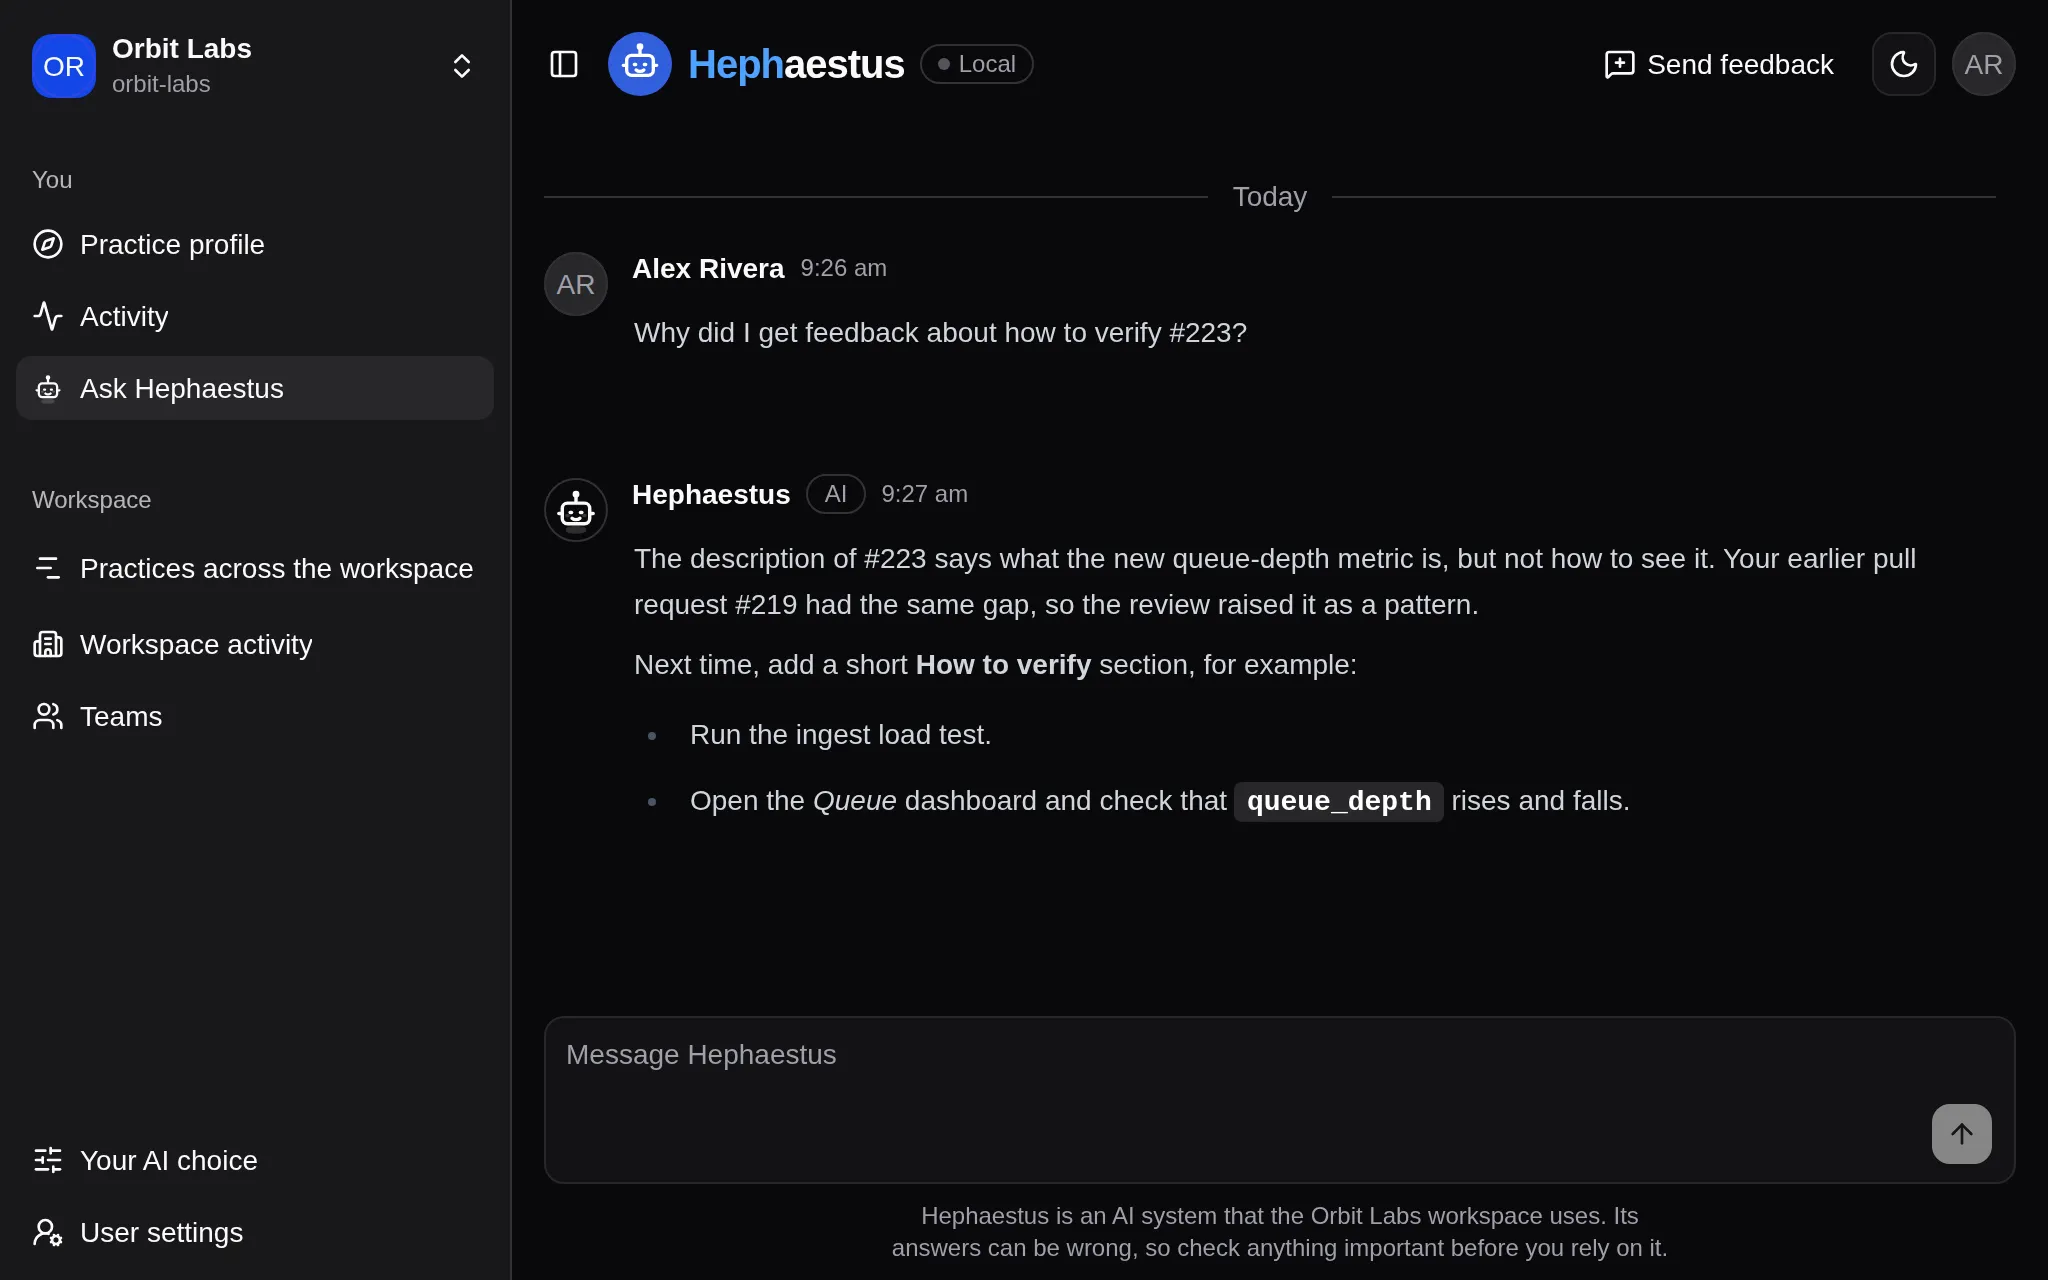
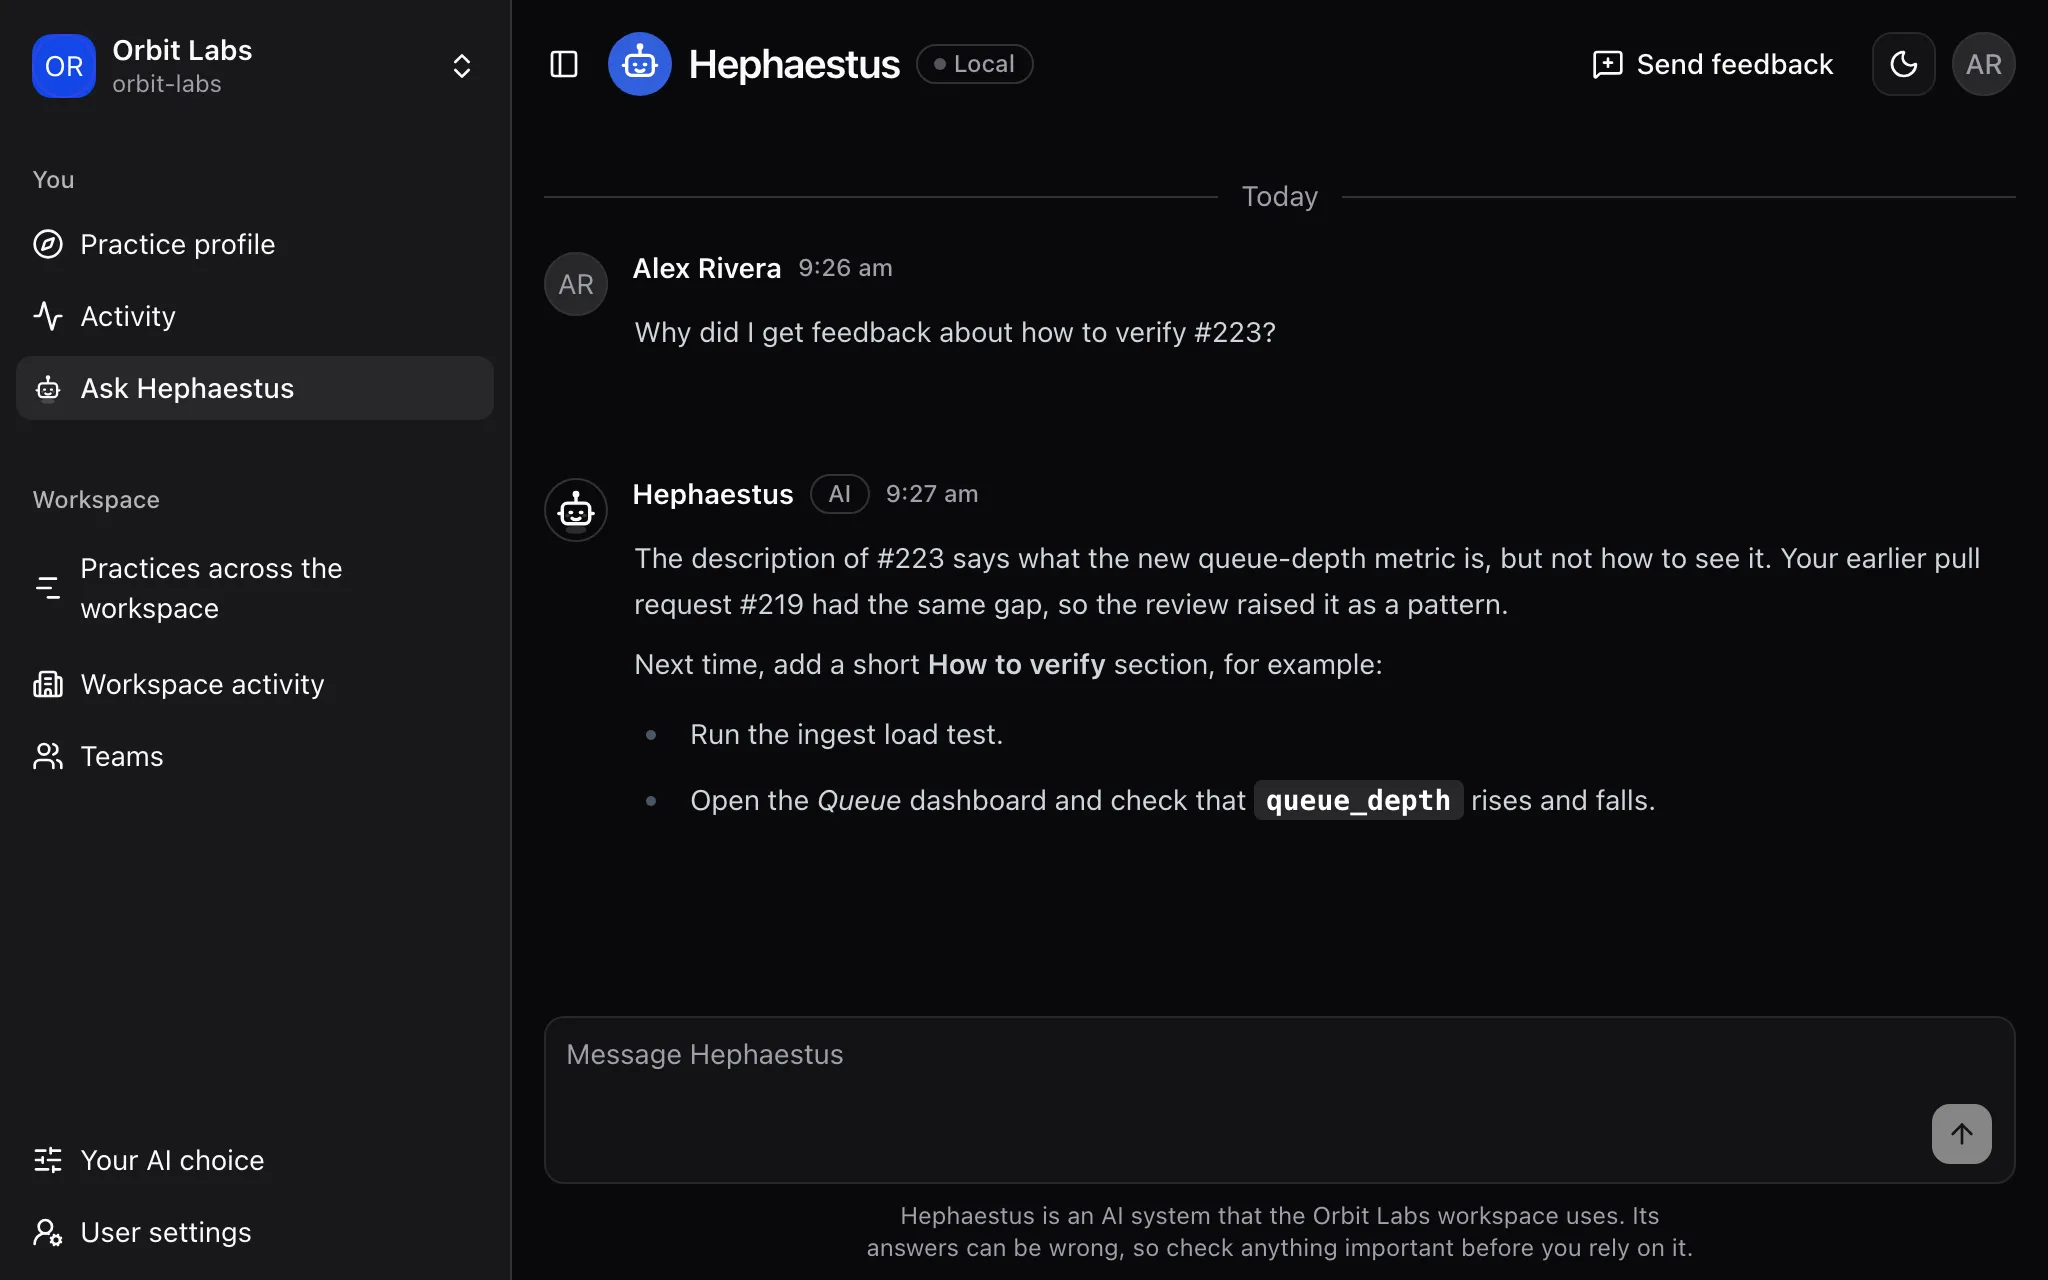
feat(webapp): one brand blue and a one-colour Hephaestus wordmark (#4695)

diff --git a/webapp/scripts/export-assets.ts b/webapp/scripts/export-assets.ts
@@ -38,7 +38,6 @@ const interFont = await readFile(
 );
 const FONT_FACE = `@font-face{font-family:Inter;font-style:normal;font-weight:100 900;src:url(data:font/woff2;base64,${interFont.toString("base64")}) format('woff2')}`;
 const SIGNAL_BLUE = "#315FDC";
-const DARK_ACCENT = "#8EAEFF";
 const STORYBOOK_STARTUP_MS = 120_000;
 
 interface ReadmeCapture {
@@ -153,7 +152,7 @@ async function render(): Promise<void> {
 			const captureLockup = async (target: string, dark: boolean): Promise<void> => {
 				await page.setViewportSize({ width: 1240, height: 256 });
 				await page.setContent(
-					`<style>${FONT_FACE}html,body{margin:0;width:100%;height:100%;font-family:Inter,sans-serif;background:transparent;color:${dark ? "#F8FAFC" : "#17191F"}}main{height:100%;display:flex;align-items:center;gap:56px}.mark{width:256px;height:256px}.name{font-size:144px;font-weight:650;letter-spacing:-4px}.heph{color:${dark ? DARK_ACCENT : SIGNAL_BLUE}}</style><main><div class="mark">${markSvg}</div><div class="name"><span class="heph">Heph</span>aestus</div></main>`,
+					`<style>${FONT_FACE}html,body{margin:0;width:100%;height:100%;font-family:Inter,sans-serif;background:transparent;color:${dark ? "#F8FAFC" : "#17191F"}}main{height:100%;display:flex;align-items:center;gap:56px}.mark{width:256px;height:256px}.name{font-size:144px;font-weight:650;letter-spacing:-4px}</style><main><div class="mark">${markSvg}</div><div class="name">Hephaestus</div></main>`,
 				);
 				await page.evaluate(async () => document.fonts.ready);
 				await page.screenshot({ path: await output(target), omitBackground: true });
@@ -169,7 +168,7 @@ async function render(): Promise<void> {
 			): Promise<void> => {
 				await page.setViewportSize({ width, height });
 				await page.setContent(
-					`<style>${FONT_FACE}*{box-sizing:border-box}html,body{margin:0;width:100%;height:100%;font-family:Inter,sans-serif;background:#fbfcff;color:#17191f}.card{position:relative;isolation:isolate;height:100%;padding:58px 68px;overflow:hidden;background-image:radial-gradient(#315fdc18 1.2px,transparent 1.2px);background-size:22px 22px}.card::before{content:"";position:absolute;z-index:-1;width:520px;height:520px;right:-170px;bottom:-290px;border-radius:50%;background:#315fdc;opacity:.13;filter:blur(72px)}.brand{display:flex;align-items:center;gap:16px}.mark{width:64px;height:64px;flex:none;filter:drop-shadow(0 10px 18px rgb(49 95 220/.18))}.name{font-size:38px;font-weight:720;letter-spacing:-1.5px}.heph{color:${SIGNAL_BLUE}}.layout{display:grid;grid-template-columns:minmax(0,1fr) 350px;align-items:center;gap:64px;height:430px}.eyebrow{display:inline-flex;border:1px solid #b9cbff;border-radius:999px;padding:8px 14px;font-size:16px;font-weight:600;color:#315fdc;background:#f3f6ff}.headline{margin:20px 0 18px;font-size:58px;font-weight:760;letter-spacing:-3px;line-height:1.02}.cards{display:grid;gap:24px}.feedback{border:1px solid #cad7ff;border-radius:18px;padding:20px 22px;background:#fff;box-shadow:0 18px 44px rgb(32 46 80/.12)}.feedback:first-child{transform:rotate(-2deg)}.feedback:last-child{transform:rotate(2deg)}.practice{font-size:14px;font-weight:650;color:#315fdc}.finding{margin-top:12px;font-size:20px;font-weight:700;line-height:1.25}.detail{margin-top:7px;font-size:15px;line-height:1.35;color:#697386}</style><main class="card"><div class="brand"><div class="mark">${markSvg}</div><div class="name"><span class="heph">Heph</span>aestus</div></div><div class="layout"><section><div class="eyebrow">Open-source practice feedback for software teams</div><h1 class="headline">Learn from the work<br>you’re already doing</h1></section><aside class="cards"><div class="feedback"><div class="practice">Define a checkable outcome</div><div class="finding">No acceptance criteria.</div><div class="detail">Which outcome tells everyone the work is done?</div></div><div class="feedback"><div class="practice">Leave specific, actionable review comments</div><div class="finding">Name the doubt.</div><div class="detail">Say what evidence would settle it.</div></div></aside></div></main>`,
+					`<style>${FONT_FACE}*{box-sizing:border-box}html,body{margin:0;width:100%;height:100%;font-family:Inter,sans-serif;background:#fbfcff;color:#17191f}.card{position:relative;isolation:isolate;height:100%;padding:58px 68px;overflow:hidden;background-image:radial-gradient(#315fdc18 1.2px,transparent 1.2px);background-size:22px 22px}.card::before{content:"";position:absolute;z-index:-1;width:520px;height:520px;right:-170px;bottom:-290px;border-radius:50%;background:#315fdc;opacity:.13;filter:blur(72px)}.brand{display:flex;align-items:center;gap:16px}.mark{width:64px;height:64px;flex:none;filter:drop-shadow(0 10px 18px rgb(49 95 220/.18))}.name{font-size:38px;font-weight:720;letter-spacing:-1.5px}.layout{display:grid;grid-template-columns:minmax(0,1fr) 350px;align-items:center;gap:64px;height:430px}.eyebrow{display:inline-flex;border:1px solid #b9cbff;border-radius:999px;padding:8px 14px;font-size:16px;font-weight:600;color:#315fdc;background:#f3f6ff}.headline{margin:20px 0 18px;font-size:58px;font-weight:760;letter-spacing:-3px;line-height:1.02}.cards{display:grid;gap:24px}.feedback{border:1px solid #cad7ff;border-radius:18px;padding:20px 22px;background:#fff;box-shadow:0 18px 44px rgb(32 46 80/.12)}.feedback:first-child{transform:rotate(-2deg)}.feedback:last-child{transform:rotate(2deg)}.practice{font-size:14px;font-weight:650;color:#315fdc}.finding{margin-top:12px;font-size:20px;font-weight:700;line-height:1.25}.detail{margin-top:7px;font-size:15px;line-height:1.35;color:#697386}</style><main class="card"><div class="brand"><div class="mark">${markSvg}</div><div class="name">Hephaestus</div></div><div class="layout"><section><div class="eyebrow">Open-source practice feedback for software teams</div><h1 class="headline">Learn from the work<br>you’re already doing</h1></section><aside class="cards"><div class="feedback"><div class="practice">Define a checkable outcome</div><div class="finding">No acceptance criteria.</div><div class="detail">Which outcome tells everyone the work is done?</div></div><div class="feedback"><div class="practice">Leave specific, actionable review comments</div><div class="finding">Name the doubt.</div><div class="detail">Say what evidence would settle it.</div></div></aside></div></main>`,
 				);
 				await page.evaluate(async () => document.fonts.ready);
 				await page.screenshot({ path: await output(target) });

diff --git a/scripts/check-no-legacy.ts b/scripts/check-no-legacy.ts
@@ -51,30 +51,6 @@ const allowed: readonly (Omit<Finding, "line"> & { count: number; reason: string
 		count: 1,
 		reason: "The vocabulary names the retired word to forbid it.",
 	},
-	{
-		rule: "retired-name",
-		file: "webapp/src/components/brand/HephaestusLogo.tsx",
-		text: `<span className="text-brand-accent">${RETIRED_NAME}</span>aestus`,
-		count: 1,
-		reason:
-			"The wordmark styles the first letters of the name: a visual split, not the retired word.",
-	},
-	{
-		rule: "retired-name",
-		file: "webapp/scripts/export-assets.ts",
-		text: `\`<style>\${FONT_FACE}html,body{margin:0;width:100%;height:100%;font-family:Inter,sans-serif;background:transparent;color:\${dark ? "#F8FAFC" : "#17191F"}}main{height:100%;display:flex;align-items:center;gap:56px}.mark{width:256px;height:256px}.name{font-size:144px;font-weight:650;letter-spacing:-4px}.heph{color:\${dark ? DARK_ACCENT : SIGNAL_BLUE}}</style><main><div class="mark">\${markSvg}</div><div class="name"><span class="heph">${RETIRED_NAME}</span>aestus</div></main>\`,`,
-		count: 1,
-		reason:
-			"The exported wordmark styles the first letters of the name: a visual split, not the retired word.",
-	},
-	{
-		rule: "retired-name",
-		file: "webapp/scripts/export-assets.ts",
-		text: `\`<style>\${FONT_FACE}*{box-sizing:border-box}html,body{margin:0;width:100%;height:100%;font-family:Inter,sans-serif;background:#fbfcff;color:#17191f}.card{position:relative;isolation:isolate;height:100%;padding:58px 68px;overflow:hidden;background-image:radial-gradient(#315fdc18 1.2px,transparent 1.2px);background-size:22px 22px}.card::before{content:"";position:absolute;z-index:-1;width:520px;height:520px;right:-170px;bottom:-290px;border-radius:50%;background:#315fdc;opacity:.13;filter:blur(72px)}.brand{display:flex;align-items:center;gap:16px}.mark{width:64px;height:64px;flex:none;filter:drop-shadow(0 10px 18px rgb(49 95 220/.18))}.name{font-size:38px;font-weight:720;letter-spacing:-1.5px}.heph{color:\${SIGNAL_BLUE}}.layout{display:grid;grid-template-columns:minmax(0,1fr) 350px;align-items:center;gap:64px;height:430px}.eyebrow{display:inline-flex;border:1px solid #b9cbff;border-radius:999px;padding:8px 14px;font-size:16px;font-weight:600;color:#315fdc;background:#f3f6ff}.headline{margin:20px 0 18px;font-size:58px;font-weight:760;letter-spacing:-3px;line-height:1.02}.cards{display:grid;gap:24px}.feedback{border:1px solid #cad7ff;border-radius:18px;padding:20px 22px;background:#fff;box-shadow:0 18px 44px rgb(32 46 80/.12)}.feedback:first-child{transform:rotate(-2deg)}.feedback:last-child{transform:rotate(2deg)}.practice{font-size:14px;font-weight:650;color:#315fdc}.finding{margin-top:12px;font-size:20px;font-weight:700;line-height:1.25}.detail{margin-top:7px;font-size:15px;line-height:1.35;color:#697386}</style><main class="card"><div class="brand"><div class="mark">\${markSvg}</div><div class="name"><span class="heph">${RETIRED_NAME}</span>aestus</div></div><div class="layout"><section><div class="eyebrow">Open-source practice feedback for software teams</div><h1 class="headline">Learn from the work<br>you’re already doing</h1></section><aside class="cards"><div class="feedback"><div class="practice">Define a checkable outcome</div><div class="finding">No acceptance criteria.</div><div class="detail">Which outcome tells everyone the work is done?</div></div><div class="feedback"><div class="practice">Leave specific, actionable review comments</div><div class="finding">Name the doubt.</div><div class="detail">Say what evidence would settle it.</div></div></aside></div></main>\`,`,
-		count: 1,
-		reason:
-			"The exported wordmark styles the first letters of the name: a visual split, not the retired word.",
-	},
 ];
 
 /**

diff --git a/docs/src/lib/layout.tsx b/docs/src/lib/layout.tsx
@@ -3,6 +3,8 @@ import type { BaseLayoutProps, LinkItemType } from "fumadocs-ui/layouts/shared";
 import { BASE, PRODUCT_URL, REPO_URL } from "@/lib/site";
 import { versions } from "@/lib/version";
 
+import markUrl from "@brand/hephaestus-mark.svg?url";
+
 const base = BASE;
 
 const GUIDE_LINKS = [
@@ -18,23 +20,12 @@ const GUIDE_LINKS = [
 export function baseOptions({ guides = true }: { guides?: boolean } = {}): BaseLayoutProps {
 	return {
 		nav: {
+			// The web app's lockup: the mark and the one-colour wordmark, in the font and color of the page.
 			title: (
-				<>
-					<img
-						className="h-7 w-auto dark:hidden"
-						src={`${base}img/brand/hephaestus-lockup-light.png`}
-						alt="Hephaestus"
-						width={155}
-						height={32}
-					/>
-					<img
-						className="hidden h-7 w-auto dark:block"
-						src={`${base}img/brand/hephaestus-lockup-dark.png`}
-						alt="Hephaestus"
-						width={155}
-						height={32}
-					/>
-				</>
+				<span className="inline-flex items-center gap-2 font-semibold tracking-tight">
+					<img className="size-7" src={markUrl} alt="" width={28} height={28} />
+					Hephaestus
+				</span>
 			),
 			url: base,
 		},

diff --git a/webapp/src/styles/theme-tokens.css b/webapp/src/styles/theme-tokens.css
@@ -53,9 +53,9 @@
 	--code: oklch(0.98 0.002 286.3);
 	--code-header: oklch(0.955 0.003 286.3);
 
-	--brand: oklch(0.546 0.245 262.881);
-	--brand-accent: oklch(0.546 0.245 262.881);
-	--highlight: oklch(0.546 0.245 262.881);
+	/* The one brand blue: the Hephaestus mark's #315FDC, in both color modes. */
+	--brand: oklch(0.53 0.198 264.9);
+	--highlight: var(--brand);
 	--highlight-foreground: oklch(0.97 0.014 254.604);
 }
 
@@ -106,8 +106,8 @@
 	--code: oklch(0.16 0.004 286);
 	--code-header: oklch(0.21 0.004 286);
 
-	--brand: oklch(0.546 0.245 262.881);
-	--brand-accent: oklch(0.707 0.165 254.624);
+	--brand: oklch(0.53 0.198 264.9);
+	/* The brand blue is too dark for text on a dark ground (3.6:1), so the accent takes a lighter step of it. */
 	--highlight: oklch(0.707 0.165 254.624);
 	--highlight-foreground: oklch(0.21 0.006 285.885);
 }
@@ -129,7 +129,6 @@
 	--color-accent: var(--accent);
 	--color-accent-foreground: var(--accent-foreground);
 	--color-brand: var(--brand);
-	--color-brand-accent: var(--brand-accent);
 	--color-destructive: var(--destructive);
 	--color-destructive-foreground: var(--destructive-foreground);
 	--color-success: var(--success);

diff --git a/webapp/src/components/brand/HephaestusLogo.tsx b/webapp/src/components/brand/HephaestusLogo.tsx
@@ -11,11 +11,7 @@ export function HephaestusLogoMark({ className }: { className?: string }) {
 }
 
 export function HephaestusWordmark({ className }: { className?: string }) {
-	return (
-		<span className={className}>
-			<span className="text-brand-accent">Heph</span>aestus
-		</span>
-	);
+	return <span className={className}>Hephaestus</span>;
 }
 
 interface HephaestusLogoProps {

diff --git a/.changeset/one-brand-blue-wordmark.md b/.changeset/one-brand-blue-wordmark.md
@@ -1,0 +1,5 @@
+---
+"hephaestus": patch
+---
+
+The Hephaestus name now appears in one color everywhere: in the app, on the sign-in pages, in the Chrome extension, in the documentation, and on link previews. The app's accent blue now matches the Hephaestus mark, so links, selections and new feedback use the same blue as the logo, with slightly more contrast in light mode.
